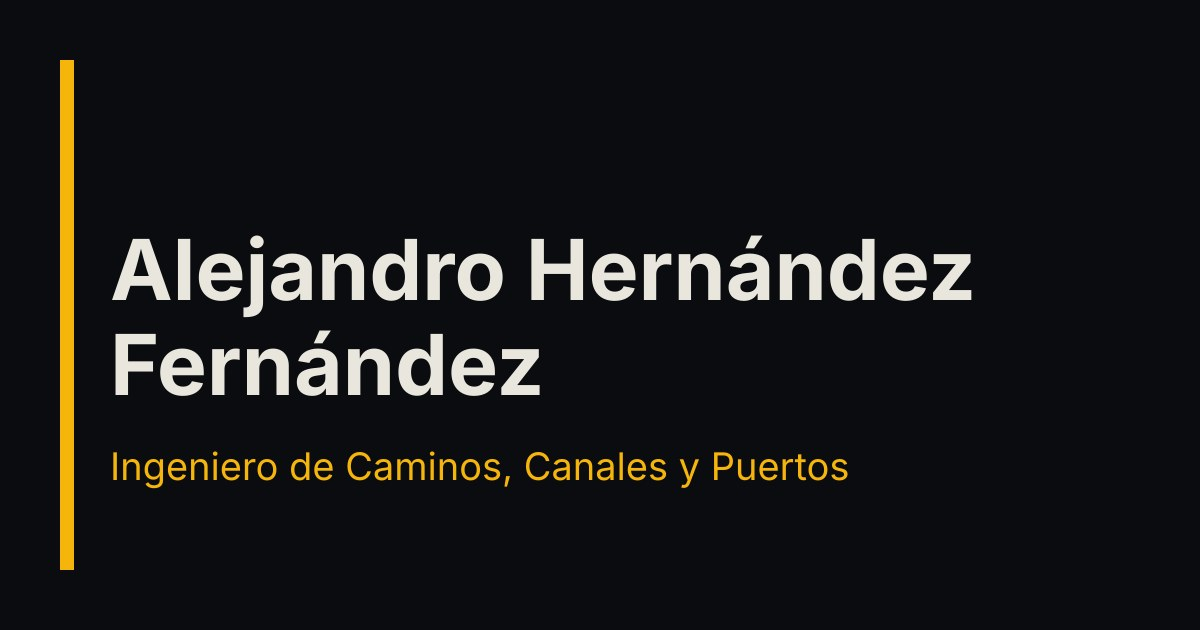
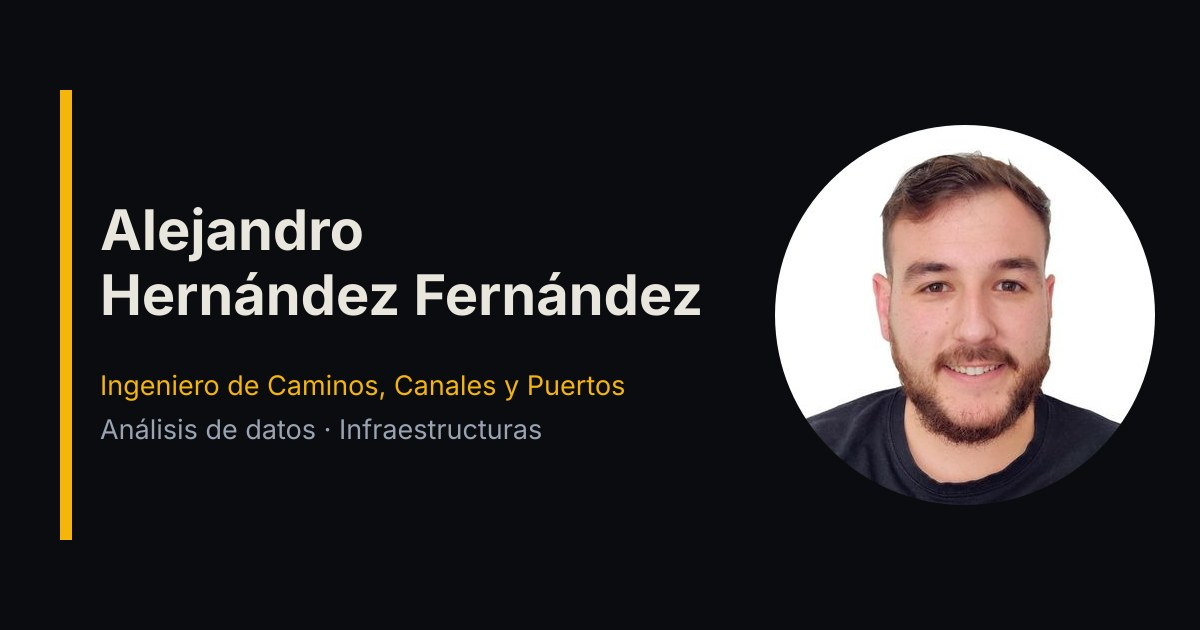
feat: real photo and data-analysis focus for the hero and about copy
- Badge photo and og.jpg built from the supplied round capture
- Hero, about, marquee, phases map (data to decision) and contact reworded around data analysis
- Keep es/en dictionaries in sync

Changed region(s): [[0.0617, 0.181, 0.9867, 0.8143], [0.0308, 0.8444, 0.0617, 0.9048], [0.0308, 0.0905, 0.0617, 0.1508]]

diff --git a/README.md b/README.md
@@ -1,6 +1,6 @@
 # Portfolio de Alejandro Hernández Fernández
 
-Portfolio de Alejandro Hernández Fernández, Ingeniero de Caminos, Canales y Puertos en Madrid.
+Portfolio de Alejandro Hernández Fernández, Ingeniero de Caminos, Canales y Puertos en Madrid, con perfil de análisis de datos.
 Está en español (`/`) y en inglés (`/en`). Sirve también como **plantilla de portfolio para ingeniería civil**:
 cambiando los textos y la foto, vale para otra persona.
 
@@ -28,7 +28,7 @@ pnpm preview    # sirve el build
 
 ```
 src/
-  components/   Hero, CraneHero (grúa 3D + credencial), LineMap (fases de obra), About,
+  components/   Hero, CraneHero (grúa 3D + credencial), LineMap (del dato a la decisión), About,
                 Works (obras), Experience, Education, Contact, Header, Footer...
   scripts/      crane.ts: la grúa torre en three.js
   i18n/         es.json, en.json e index.ts con el tipado de los textos
@@ -41,7 +41,7 @@ src/
 
 - **Textos:** todos están en `src/i18n/es.json` y `en.json`. Si el inglés no tiene la misma
   forma que el español, el build falla. La traducción al inglés está pendiente de revisión.
-- **Foto:** sustituye `src/assets/me.jpg` (retrato vertical 4:5). Ahora hay una foto provisional.
+- **Foto:** `src/assets/me.jpg`, retrato vertical 4:5. Si tienes una foto redonda, colócala sobre un fondo del color de la credencial (`#12161d`).
 - **CV:** `public/cv-alejandro-hernandez.pdf` (cambia también la ruta en `Header.astro` y `Hero.astro`).
 - **Imagen social:** `public/og.jpg` (1200×630).
 - **Dominio:** cámbialo en la constante `SITE` de `astro.config.mjs`. Ahora es un marcador

diff --git a/DESIGN.md b/DESIGN.md
@@ -4,7 +4,7 @@
 Una **obra con grúa**. En el hero, una grúa torre en 3D (three.js, procedural, sin marca) de cuyo gancho cuelga
 la acreditación profesional con la foto. La cuerda tiene física: se puede arrastrar y la credencial se balancea
 y sigue al gancho cuando el carro de la grúa se desplaza.
-Debajo, "las fases de una obra" (Estudio, Planificación, Ejecución, Control, Entrega) sustituye al mapa de metro.
+Debajo, "del dato a la decisión" (Datos, Análisis, Control, Automatización, Decisión) sustituye al mapa de metro. El enfoque del perfil es el análisis de datos aplicado a infraestructuras.
 
 ## Tokens
 - `noche #0A0C10` fondo · `asfalto #12161D` superficies · `riel #262C37` líneas
@@ -22,5 +22,5 @@ Formación · Contacto. Sin blog ni proyectos propios.
 - Los importes de las obras son los que figuran en el CV.
 
 ## Pendiente
-- Foto definitiva, dominio, revisión del inglés.
+- Dominio y revisión del inglés.
 - Animación de un camión al hacer scroll (fase 2).
